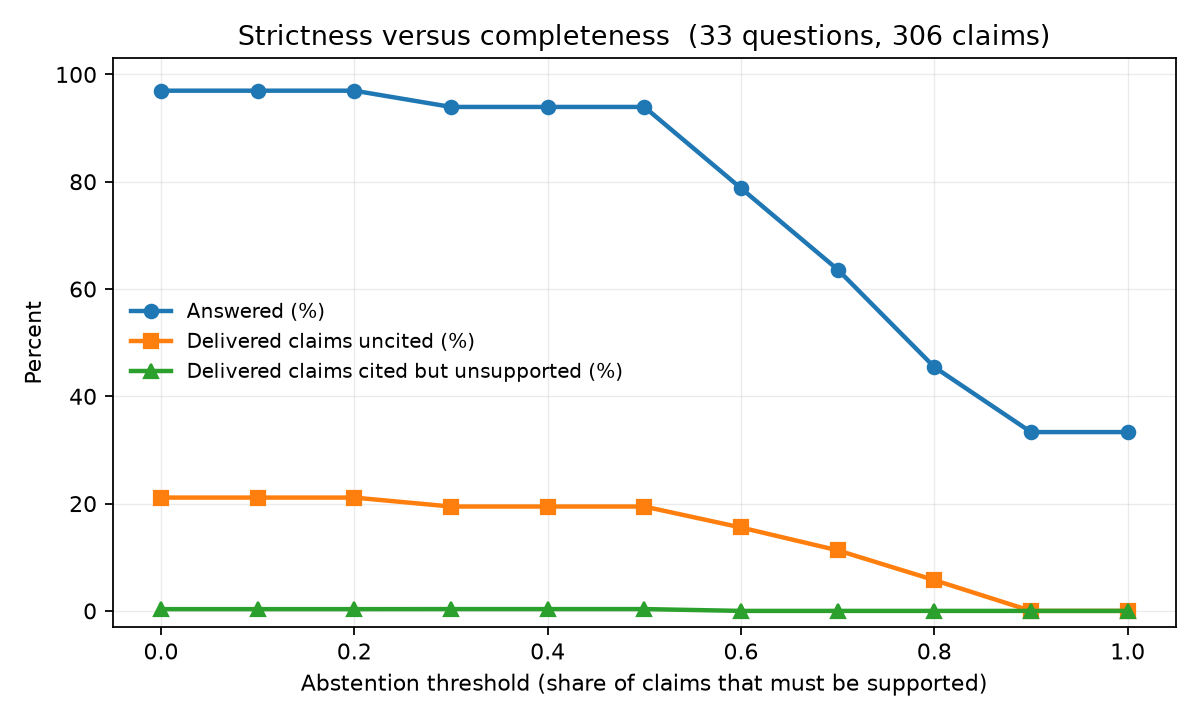
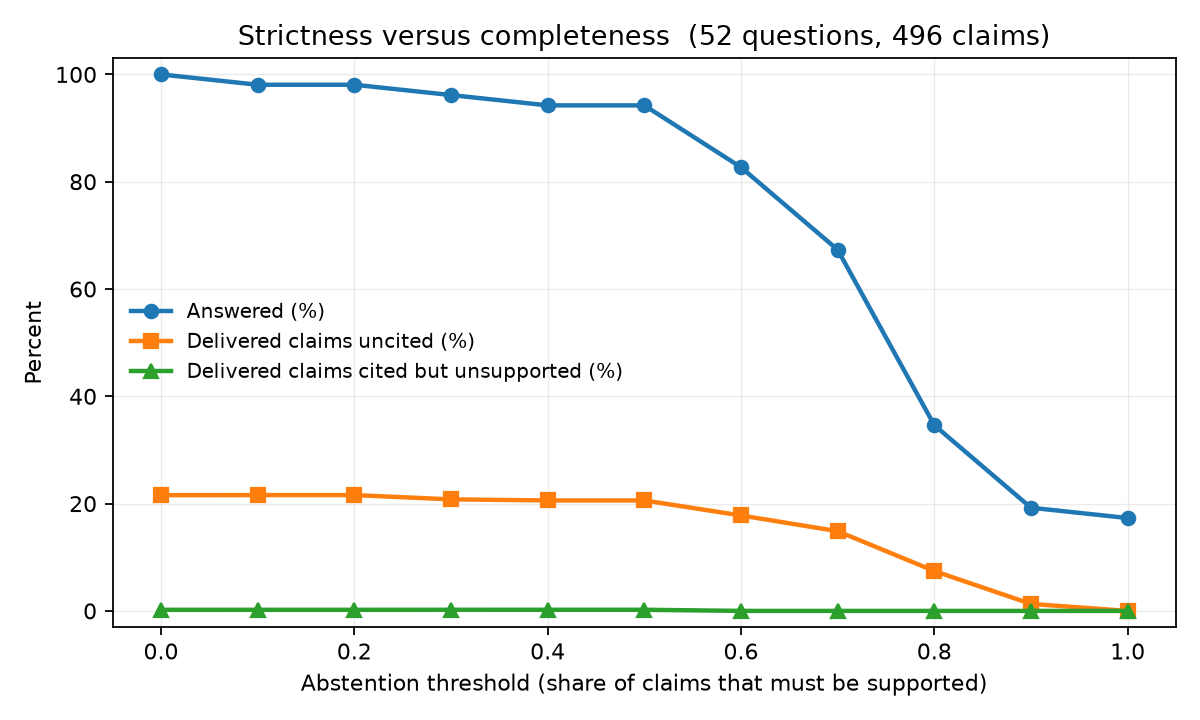
eval: regenerate the grounding curve and triad at 52 questions
Run 9: 52 answers, $1.58, 9.0 s mean latency. Grounding over 496 claims.

The tradeoff curve holds its shape at the larger sample, which is the useful
thing about re-running it. Answer rate falls 100% -> 17% as uncited claims fall
22% -> 0%, with the knee still around 0.60-0.70.

The strict faithfulness failure rate did not move: 1 claim in 496 cited a span
that does not support it, against 1 in 306 before. Claims rose from 306 to 496
and the count stayed at one.

    supported by their cited span     323
    cited a span that does not support  1
    cited nothing at all              172

Triad at 52: answer relevance 0.98, context relevance 0.59, $1.36. Context
relevance again corroborates the uncited-span finding by an independent route:
generation shows 22% of supplied spans never cited, and the triad, judging span
usefulness without seeing which were cited, puts 41% as not useful.

Corrected an arithmetic error I made while writing this up. I first reported
388 supported / 107 uncited by subtracting the tradeoff table's "uncited"
column from the claim total. Those are different populations: the table excludes
the 65 sentences that talk about the evidence rather than about vLLM, while the
claims table stores them. The README now states both counts and why they differ,
rather than quietly using whichever one fits.

diff --git a/README.md b/README.md
@@ -334,23 +334,27 @@ What the table supports:
 
 The headline result. Sweeping the abstention threshold trades how often the
 system answers at all against how well-grounded the answers it does give are.
-Over 33 golden questions and 306 extracted claims, run 5. The golden set has
-since grown to 52; regenerating this curve needs API credit, so it is reported
-at the sample it was measured on rather than silently mixed:
+Over 52 golden questions and 496 extracted claims:
 
 | Abstention threshold | Answered | Abstained | Answer rate | Delivered claims | Cited but unsupported | Uncited |
 |---|---|---|---|---|---|---|
-| 0.00 | 32 | 1 | 97% | 303 | 1 (0%) | 64 (21%) |
-| 0.30 | 31 | 2 | 94% | 293 | 1 (0%) | 57 (19%) |
-| 0.50 | 31 | 2 | 94% | 293 | 1 (0%) | 57 (19%) |
-| 0.60 | 26 | 7 | 79% | 238 | 0 (0%) | 37 (16%) |
-| 0.70 | 21 | 12 | 64% | 186 | 0 (0%) | 21 (11%) |
-| 0.80 | 15 | 18 | 45% | 122 | 0 (0%) | 7 (6%) |
-| 0.90 | 11 | 22 | 33% | 72 | 0 (0%) | 0 (0%) |
+| 0.00 | 52 | 0 | 100% | 496 | 1 (0%) | 107 (22%) |
+| 0.30 | 50 | 2 | 96% | 481 | 1 (0%) | 100 (21%) |
+| 0.50 | 49 | 3 | 94% | 476 | 1 (0%) | 98 (21%) |
+| 0.60 | 43 | 9 | 83% | 416 | 0 (0%) | 74 (18%) |
+| 0.70 | 35 | 17 | 67% | 323 | 0 (0%) | 48 (15%) |
+| 0.80 | 18 | 34 | 35% | 148 | 0 (0%) | 11 (7%) |
+| 0.90 | 10 | 42 | 19% | 77 | 0 (0%) | 1 (1%) |
+| 1.00 | 9 | 43 | 17% | 63 | 0 (0%) | 0 (0%) |
 
-Reproduce with `uv run anchor ground`. The sweep calls no model: claims are
-scored once and re-thresholded, so the whole curve costs one pass over answers
-already paid for.
+Run 9, 52 questions, 496 claims. Reproduce with `uv run anchor ground`. The
+sweep calls no model: claims are scored once and re-thresholded, so the whole
+curve costs one pass over answers already paid for.
+
+**One claim in 496 cited a span that does not support it.** The shape held when
+the set grew from 33 to 52 questions and the claim count from 306 to 496, which
+is the useful thing about re-running it: the strict faithfulness failure rate
+did not move.
 
 **The two failure columns are separate on purpose, and merging them produced a
 number four times too large.** A claim that cites a span which does not support
@@ -358,13 +362,20 @@ it asserted something its own evidence contradicts. A claim that cites nothing
 is merely unattributable. The first version of this table folded both into one
 "unsupported" figure and reported **37%**. Split apart:
 
-| | Claims |
+| | Claims (52 questions) |
 |---|---|
-| Supported by their cited span | 193 |
+| Supported by their cited span | 323 |
 | Cited a span that does not support them | **1** |
-| Cited nothing at all | 112 |
+| Cited nothing at all | 172 |
 
-The strict faithfulness failure rate is 1 claim in 306. The 37% was almost
+The strict faithfulness failure rate is 1 claim in 496.
+
+Two counts in this section differ and both are correct. The `claims` table
+records 172 claims citing nothing; the tradeoff table's "uncited" column shows
+107 at threshold 0. The difference is the 65 sentences that talk about the
+evidence rather than about vLLM, which are excluded from the faithfulness
+denominator but still stored, because a claim that was judged has to be
+inspectable afterwards. The 37% was almost
 entirely claims with no citation, which is a different and much less alarming
 problem, and publishing it as a hallucination rate would have been wrong.
 
@@ -394,10 +405,10 @@ and found no contradictions across the 3 answers it had jurisdiction over.
 | Metric | Score | Notes |
 |---|---|---|
 | Faithfulness | see grounding above | measured against cited spans, plus the symbol oracle |
-| Answer relevance | **1.00** | every answer addressed its question |
-| Context relevance | **0.55** | share of retrieved spans that were actually useful |
+| Answer relevance | **0.98** | almost every answer addressed its question |
+| Context relevance | **0.59** | share of retrieved spans that were actually useful |
 
-33 answers, run 5, $0.82. Fully relevant context on only 4 of 33 questions.
+52 answers, run 9, $1.36. Fully relevant context on only 7 of 52 questions.
 
 **Answer relevance is 1.00 because honest non-answers count as relevant.** An
 answer correctly reporting that the documentation does not cover something has
@@ -405,10 +416,10 @@ addressed the question. Scoring that as irrelevant would reward guessing, which
 is the opposite of what the abstention policy is for, so the rubric says so
 explicitly.
 
-**Context relevance of 0.55 is the actionable number, and it corroborates an
-earlier finding by a different route.** Generation showed 23% of supplied spans
+**Context relevance of 0.59 is the actionable number, and it corroborates an
+earlier finding by a different route.** Generation showed 22% of supplied spans
 were never cited. The triad, judging span usefulness independently and without
-seeing which were cited, puts 45% of spans as not useful. Two unrelated
+seeing which were cited, puts 41% of spans as not useful. Two unrelated
 measurements agreeing that `rerank_top_n` of 5 is larger than answers need is
 much stronger evidence than either alone. Every surplus span is paid for in
 input tokens on every query.
